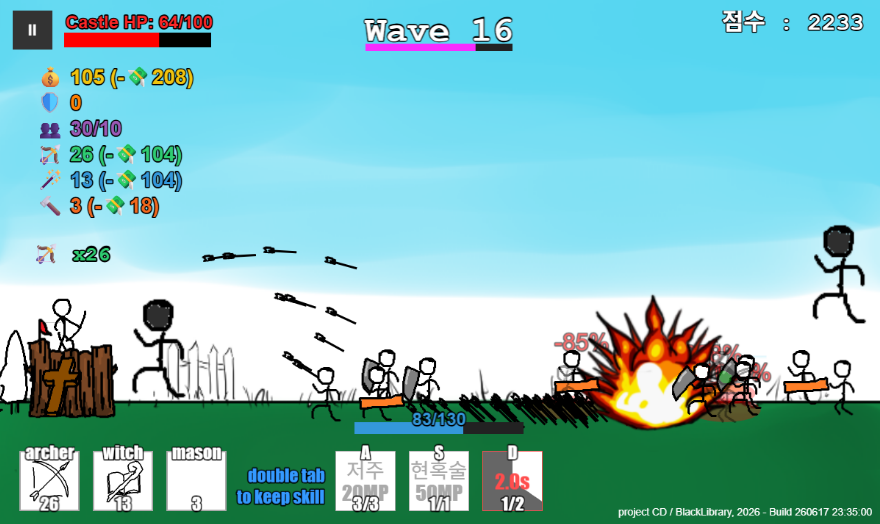
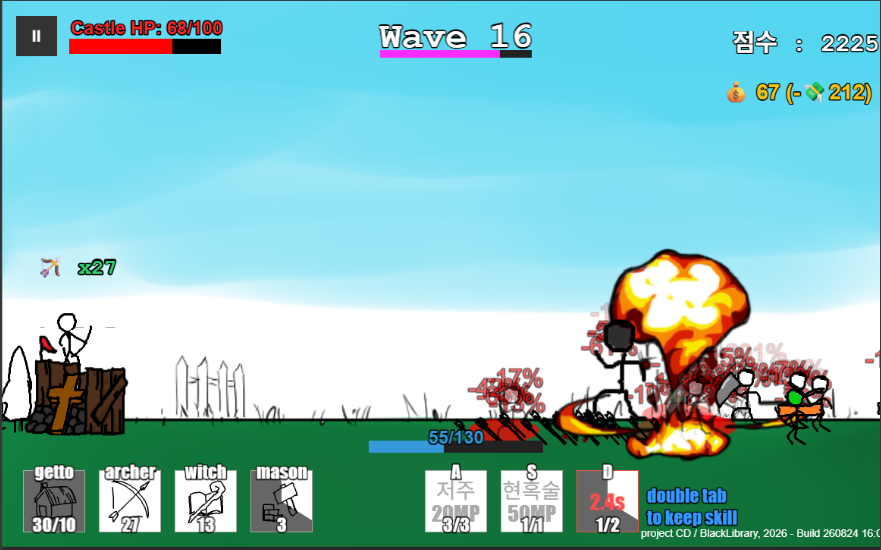
20261011_6

diff --git a/script.js b/script.js
@@ -1,4 +1,4 @@
-const DEFAULT_IMAGE = 'datas/default.png';
+const DEFAULT_IMAGE = 'datas/images/default.png';
 
 let allItems = [];
 let i18nData = {};            // language.tsv
@@ -7,6 +7,9 @@ let contentTranslateData = {};// content_translate.tsv
 let currentLang = localStorage.getItem('app_lang') || 'ko';
 let selectedTags = [];        // 다중 선택된 태그 배열
 let tagSearchQuery = '';      // 사이드바 내부 태그 검색어
+
+let currentImageIndex = 0;
+let modalImagesArray = [];
 
 // TSV 파싱 함수 (category 컬럼 지원)
 function parseTSV(tsvText) {
@@ -31,6 +34,80 @@ function parseTSV(tsvText) {
     return item;
   }).filter(Boolean);
 }
+// 1. 쉼표(,) 기준으로 이미지 경로를 파싱하는 함수
+function parseImages(imageField) {
+  if (!imageField) return [];
+  // 쉼표(,)를 기준으로 나누고 앞뒤 공백 제거, 빈 값 필터링
+  return imageField.split(',').map(img => img.trim()).filter(img => img.length > 0);
+}
+// 2. 모달 내부 슬라이더 렌더링 (1장일 때는 화살표/인디케이터 숨김)
+function renderModalSlider(container) {
+  const hasMultiple = modalImagesArray.length > 1;
+
+  container.innerHTML = `
+    <div class="relative w-full aspect-video bg-slate-900 rounded-xl overflow-hidden group">
+      <!-- 이미지 표시 -->
+      <img 
+        id="modalActiveImage" 
+        src="${modalImagesArray[currentImageIndex]}" 
+        alt="Detail Image" 
+        class="w-full h-full object-cover transition-all duration-300"
+        onerror="this.src='https://placehold.co/600x400/e2e8f0/475569?text=Image+Error'"
+      />
+
+      <!-- 좌우 슬라이드 버튼 (사진이 2장 이상일 때만 노출) -->
+      ${hasMultiple ? `
+        <button 
+          onclick="event.stopPropagation(); slideModalImage(-1)" 
+          class="absolute left-3 top-1/2 -translate-y-1/2 w-9 h-9 bg-black/50 hover:bg-black/70 text-white rounded-full flex items-center justify-center backdrop-blur-sm transition-all opacity-80 group-hover:opacity-100 cursor-pointer"
+          title="이전 사진"
+        >
+          <i class="fa-solid fa-chevron-left text-sm"></i>
+        </button>
+        <button 
+          onclick="event.stopPropagation(); slideModalImage(1)" 
+          class="absolute right-3 top-1/2 -translate-y-1/2 w-9 h-9 bg-black/50 hover:bg-black/70 text-white rounded-full flex items-center justify-center backdrop-blur-sm transition-all opacity-80 group-hover:opacity-100 cursor-pointer"
+          title="다음 사진"
+        >
+          <i class="fa-solid fa-chevron-right text-sm"></i>
+        </button>
+
+        <!-- 하단 점(Dot) 인디케이터 컨테이너 -->
+        <div class="absolute bottom-3 left-1/2 -translate-x-1/2 px-3 py-1.5 bg-black/40 backdrop-blur-sm rounded-full flex items-center gap-1.5 pointer-events-none" id="modalDotsContainer">
+          ${modalImagesArray.map((_, idx) => `
+            <span class="w-2 h-2 rounded-full transition-all duration-300 ${idx === currentImageIndex ? 'bg-white w-4' : 'bg-white/40'}"></span>
+          `).join('')}
+        </div>
+      ` : ''}
+    </div>
+  `;
+}
+
+// 슬라이드 인덱스 변경 함수
+function slideModalImage(direction) {
+  if (modalImagesArray.length <= 1) return;
+  
+  currentImageIndex = (currentImageIndex + direction + modalImagesArray.length) % modalImagesArray.length;
+  
+  const activeImg = document.getElementById('modalActiveImage');
+  if (activeImg) {
+    activeImg.src = modalImagesArray[currentImageIndex];
+  }
+
+  // 점(Dot) 인디케이터 활성화 상태 갱신
+  const dotsContainer = document.getElementById('modalDotsContainer');
+  if (dotsContainer) {
+    const dots = dotsContainer.children;
+    for (let i = 0; i < dots.length; i++) {
+      if (i === currentImageIndex) {
+        dots[i].className = 'w-4 h-2 rounded-full transition-all duration-300 bg-white';
+      } else {
+        dots[i].className = 'w-2 h-2 rounded-full transition-all duration-300 bg-white/40';
+      }
+    }
+  }
+}
+
 
 // UI 번역 함수
 function t(key, fallback = '') {
@@ -174,7 +251,7 @@ function checkImageExists(url) {
     const img = new Image();
     img.onload = () => resolve(true);
     img.onerror = () => resolve(false);
-    img.src = url;
+    img.src = url.split(',')[0].trim(); // 쉼표로 구분된 경우 첫 번째 이미지 경로만 확인
   });
 }
 
@@ -415,6 +492,10 @@ async function renderCards() {
     const title = getContentText(item.item_key, 'title') || t('no_image_title', '제목 없음');
     const description = getContentText(item.item_key, 'desc')
 
+    // 쉼표로 구분된 이미지 중 맨 첫 번째(대표) 이미지 추출
+    const imagesArray = parseImages(item.image);
+    const firstImage = imagesArray.length > 0 ? imagesArray[0] : DEFAULT_IMAGE;
+
     return `
       <article 
         onclick="openModal(${item.id})"
@@ -422,7 +503,7 @@ async function renderCards() {
       >
         <div class="relative w-full h-48 bg-slate-100 dark:bg-slate-800 overflow-hidden">
           <img 
-            src="${item.displayImage}" 
+            src="${firstImage}" 
             alt="${title}" 
             class="w-full h-full object-cover transition-transform duration-300 group-hover:scale-105"
             loading="lazy"
@@ -513,15 +594,13 @@ function openModal(itemId) {
   if (!item) return;
 
   const modal = document.getElementById('detailModal');
-  const modalImage = document.getElementById('modalImage');
+  //const modalImage = document.getElementById('modalImage');
   const modalTitle = document.getElementById('modalTitle');
   const modalDescription = document.getElementById('modalDescription');
   const modalTags = document.getElementById('modalTags');
   const modalExternalLink = document.getElementById('modalExternalLink');
 
-  checkImageExists(item.image).then(exists => {
-    modalImage.src = exists ? item.image : DEFAULT_IMAGE;
-  });
+  
 
   const title = getContentText(item.item_key, 'title') || t('no_image_title', '제목 없음');
   const description = getContentText(item.item_key, 'desc');
@@ -529,7 +608,22 @@ function openModal(itemId) {
   modalTitle.textContent = title;
   modalDescription.textContent = description;
 
-  // 모달 내부 태그 및 카테고리 뱃지 렌더링
+  // 1. 이미지 배열 파싱 (\ 기호 기준으로 분리)
+  modalImagesArray = parseImages(item.image);
+  currentImageIndex = 0;
+
+  const modalImageContainer = document.getElementById('modalImageContainer'); // 모달 내 이미지 영역 래퍼
+  
+  if (modalImagesArray.length > 0) {
+    renderModalSlider(modalImageContainer);
+  } else {
+    modalImageContainer.innerHTML = `
+      <div class="w-full aspect-video bg-slate-100 dark:bg-slate-800 flex items-center justify-center text-slate-400 text-sm">
+        이미지가 없습니다
+      </div>
+    `;
+  }
+
   // 모달 내부 태그 및 카테고리 뱃지 렌더링
   modalTags.innerHTML = `
     ${item.category ? `

diff --git a/index.html b/index.html
@@ -124,7 +124,7 @@
     </aside>
   </div>
 
-  <main class="max-w-7xl mx-auto px-4 sm:px-6 lg:px-8 pt-6">
+  <main class="flex-1 max-w-7xl w-full mx-auto px-4 sm:px-6 lg:px-8 py-6 pb-16">
 
     <div class="flex items-center justify-between mb-4 pb-2 border-b border-slate-200 dark:border-slate-800 flex-wrap gap-3">
       <div class="flex items-center gap-3 flex-wrap">
@@ -177,7 +177,7 @@
         <i class="fa-solid fa-xmark text-lg"></i>
       </button>
 
-      <div class="relative w-full h-64 md:h-80 bg-slate-100 dark:bg-slate-800">
+      <div id="modalImageContainer" class="relative w-full h-64 md:h-80 bg-slate-100 dark:bg-slate-800">
         <img id="modalImage" src="" alt="" class="w-full h-full object-cover" />
       </div>
 
@@ -204,7 +204,14 @@
       </div>
     </div>
   </div>
+  
+  <!-- 맨 하단 푸터 영역 -->
+  <footer class="w-full py-8 text-center border-t border-slate-200 dark:border-slate-800 text-xs text-slate-400 dark:text-slate-500 font-medium flex flex-col gap-1">
+    <div>BlackLibrary. 2020-2026</div>
+    <div class="text-[11px] opacity-80">last update : 2026.10.11 23:40</div>
+  </footer>
 
   <script src="script.js"></script>
+
 </body>
 </html>
